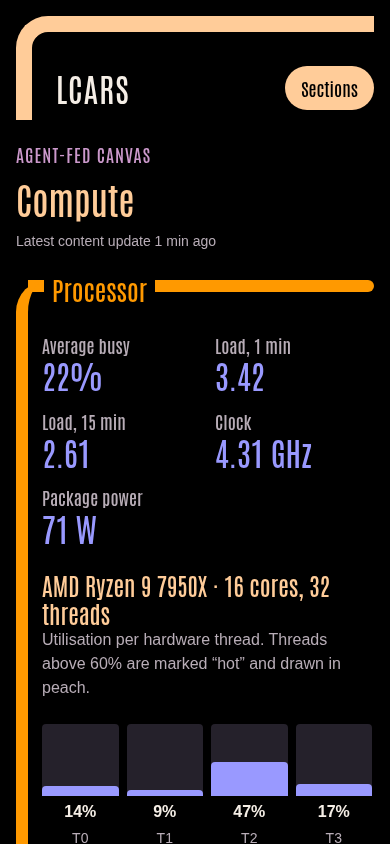
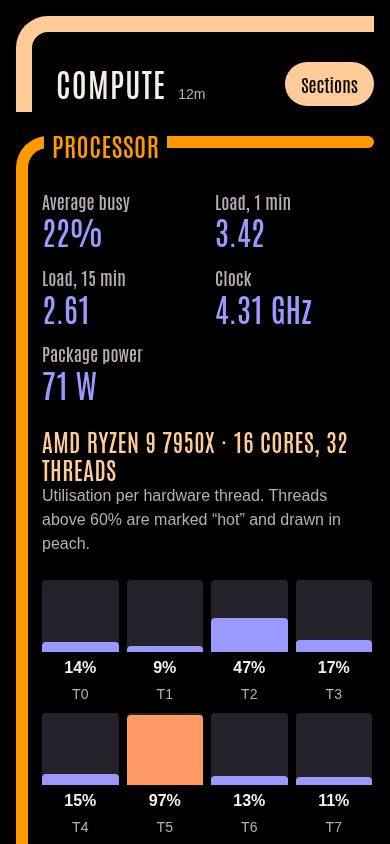
Link machine example from README and refresh its screenshots
Recapture the machine-stats screenshots with the current shell layout
and point to the example from the main README.

diff --git a/README.md b/README.md
@@ -12,7 +12,7 @@ mise run build
 ./lcars serve --data ./examples/content
 ```
 
-The server binds to loopback on port 8080 by default. The included content is a made-up demo canvas, labelled as such in its Overview briefing. Its six sections (Overview, Home, Week, Systems with Network and Storage sub-sections, Projects with Garden and Renovation, Notes) show Markdown, plain text and HTML panels, SVG charts, a sortable table, a responsive week calendar and live `data.json` files. For your own canvas, create an empty data directory and run `lcars serve --data /path/to/content`. The root must exist; the app does not create or populate it for you.
+The server binds to loopback on port 8080 by default. The included content is a made-up demo canvas, labelled as such in its Overview briefing. Its six sections (Overview, Home, Week, Systems with Network and Storage sub-sections, Projects with Garden and Renovation, Notes) show Markdown, plain text and HTML panels, SVG charts, a sortable table, a responsive week calendar and live `data.json` files. For a focused example with screenshots, see [examples/machine](examples/machine/README.md): an illustrative machine-stats canvas for a fictional workstation. For your own canvas, create an empty data directory and run `lcars serve --data /path/to/content`. The root must exist; the app does not create or populate it for you.
 
 ```text
 content/
